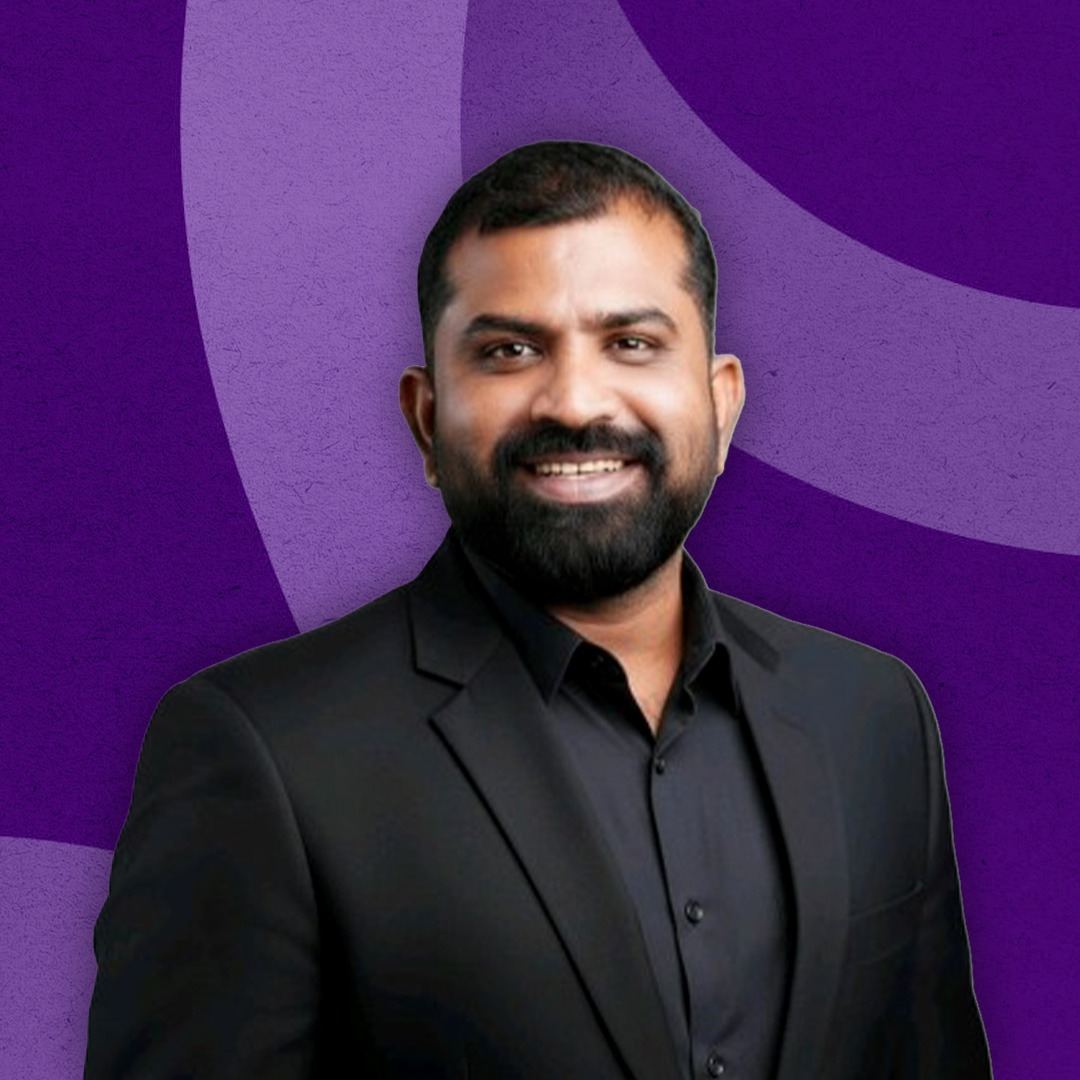
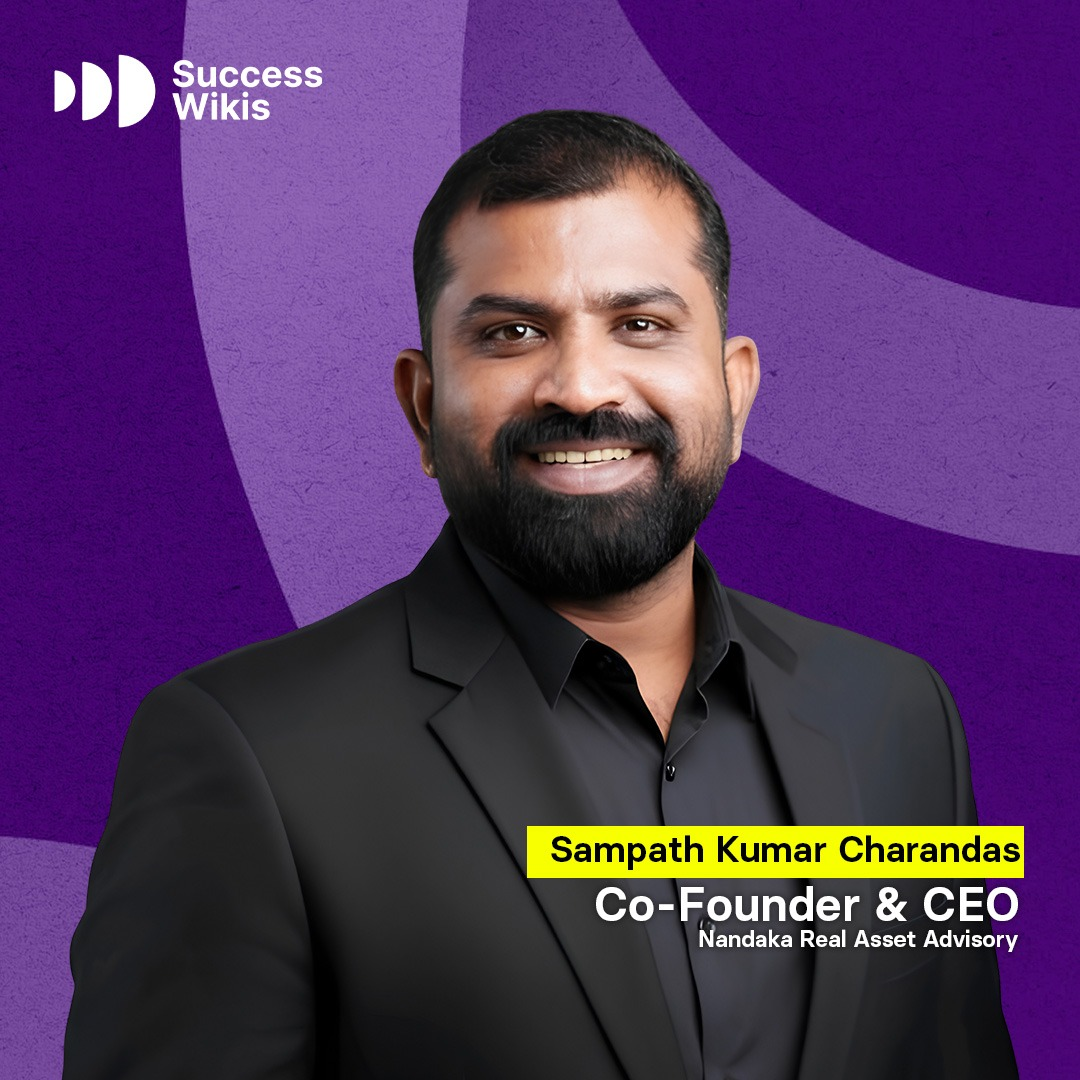
before claude changes

diff --git a/src/components/EventLayout.jsx b/src/components/EventLayout.jsx
@@ -17,7 +17,7 @@ import sponsoredDefault from '../assets/Sponsored/sponsored-image.jpg';
 // Register ScrollTrigger
 gsap.registerPlugin(ScrollTrigger);
 
-const EventLayout = ({ category, title, content, image, sponsoredImage }) => {
+const EventLayout = ({ category, title, content, image, sponsoredImage, date }) => {
     const progressBarRef = useRef(null);
     const headerRef = useRef(null);
     const location = useLocation();
@@ -50,6 +50,11 @@ const EventLayout = ({ category, title, content, image, sponsoredImage }) => {
                     <div className="pod-split-header">
                         <div className="pod-title-section">
                             <h1 className='head-text'>{title}</h1>
+                            {date && (
+                                <p style={{ marginTop: '15px', color: '#666', fontSize: '1.1rem', fontWeight: '500' }}>
+                                    SW Editorial Team • {date}
+                                </p>
+                            )}
                         </div>
                         <div className="pod-hero-img-container">
                             <img src={image} alt={title} />
@@ -63,6 +68,11 @@ const EventLayout = ({ category, title, content, image, sponsoredImage }) => {
                         <div className="pod-header-content">
                             <div className="pod-header-title">
                                 {category} <span style={{ margin: '0 10px', color: '#ccc' }}>|</span> {title}
+                                {date && (
+                                    <>
+                                        <span style={{ margin: '0 10px', color: '#ccc' }}>|</span> SW Editorial Team • {date}
+                                    </>
+                                )}
                             </div>
                             <div className="pod-header-actions">
                                 <div className="social-icons-header">

diff --git a/src/components/BlogLayout.jsx b/src/components/BlogLayout.jsx
@@ -60,7 +60,7 @@ const BlogLayout = ({
               <h1 className="head-text">{title}</h1>
               {date && (
                 <p style={{ marginTop: '15px', color: '#666', fontSize: '1.1rem', fontWeight: '500' }}>
-                  {new Date(date).toLocaleDateString('en-US', { year: 'numeric', month: 'long', day: 'numeric' })}
+                  SW Editorial Team • {new Date(date).toLocaleDateString('en-US', { year: 'numeric', month: 'long', day: 'numeric' })}
                 </p>
               )}
             </div>
@@ -81,7 +81,7 @@ const BlogLayout = ({
                 {date && (
                   <>
                     <span style={{ margin: "0 10px", color: "#ccc" }}>|</span>{" "}
-                    {new Date(date).toLocaleDateString('en-US', { year: 'numeric', month: 'long', day: 'numeric' })}
+                    SW Editorial Team • {new Date(date).toLocaleDateString('en-US', { year: 'numeric', month: 'long', day: 'numeric' })}
                   </>
                 )}
               </div>

diff --git a/src/components/PodLayout.jsx b/src/components/PodLayout.jsx
@@ -101,7 +101,7 @@ const PodLayout = ({
                     fontWeight: "500",
                   }}
                 >
-                  {formattedDate}
+                  SW Editorial Team • {formattedDate}
                 </p>
               )}
             </div>
@@ -122,7 +122,7 @@ const PodLayout = ({
                 {formattedDate && (
                   <>
                     <span style={{ margin: "0 10px", color: "#ccc" }}>|</span>{" "}
-                    {formattedDate}
+                    SW Editorial Team • {formattedDate}
                   </>
                 )}
               </div>

diff --git a/src/components/DynamicEvent.jsx b/src/components/DynamicEvent.jsx
@@ -152,6 +152,7 @@ export default function DynamicEvent() {
           category="Event"
           title={dbPost.title}
           image={dbPost.image_url}
+          date={dbPost.published_date ? new Date(dbPost.published_date).toLocaleDateString('en-US', { year: 'numeric', month: 'long', day: 'numeric' }) : undefined}
           content={
             <>
               {renderYouTube(dbPost.youtube_link)}

diff --git a/src/pod/metadata.js b/src/pod/metadata.js
@@ -93,7 +93,7 @@ export const podMetadata = [
         image: shyamImg,
         category: "The Stage Behind the Story",
         categorySlug: "stage-behind-the-story",
-        date: "2026-04-16"
+        date: "2026-04-15"
     },
     {
         id: "KrithikaRoyPost",

diff --git a/src/events/Episode1.jsx b/src/events/Episode1.jsx
@@ -89,6 +89,7 @@ const Episode1 = () => {
       category="Founder Meet"
       title="Episode-1"
       image={posterImg}
+      date="September 6, 2025"
       content={content}
     />
   );

diff --git a/index.php b/index.php
@@ -206,6 +206,15 @@ $podMetadata = [
         "category" => "The stage behind the story",
     ],
     [
+        "id" => "SampathKumarCharandasPost",
+        "title" => "Sampath Kumar Charandas: Navigating Real Estate with Precision",
+        "slug" => "sampath-kumar-charandas-nandaka-asset-advisory",
+        "categorySlug" => "stage-behind-the-story",
+        "metaDescription" => "Sampath Kumar Charandas shares how his hospitality and legal background shaped Nandaka Asset Advisory, focusing on transparency and long-term value in real estate.",
+        "image" => "/assets/The-stage-behind-the-story/sampath.jpeg",
+        "category" => "The stage behind the story",
+    ],
+    [
         "id" => "YagnakumarMallavarapuPost",
         "title" => "Yagnakumar Mallavarapu: Building Order Out of Chaos",
         "slug" => "yagnakumar-mallavarapu-yagnexor",
